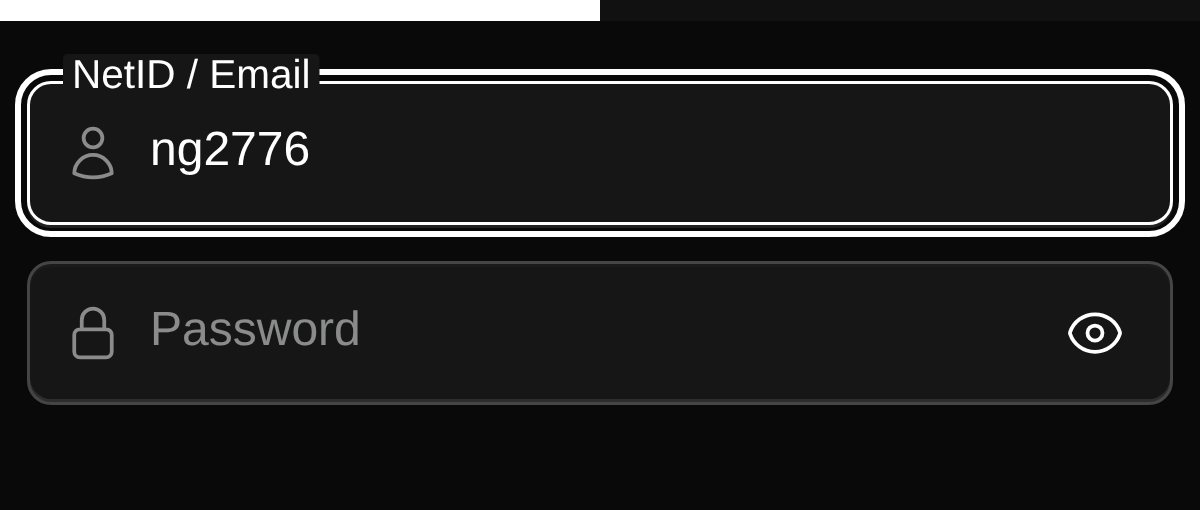
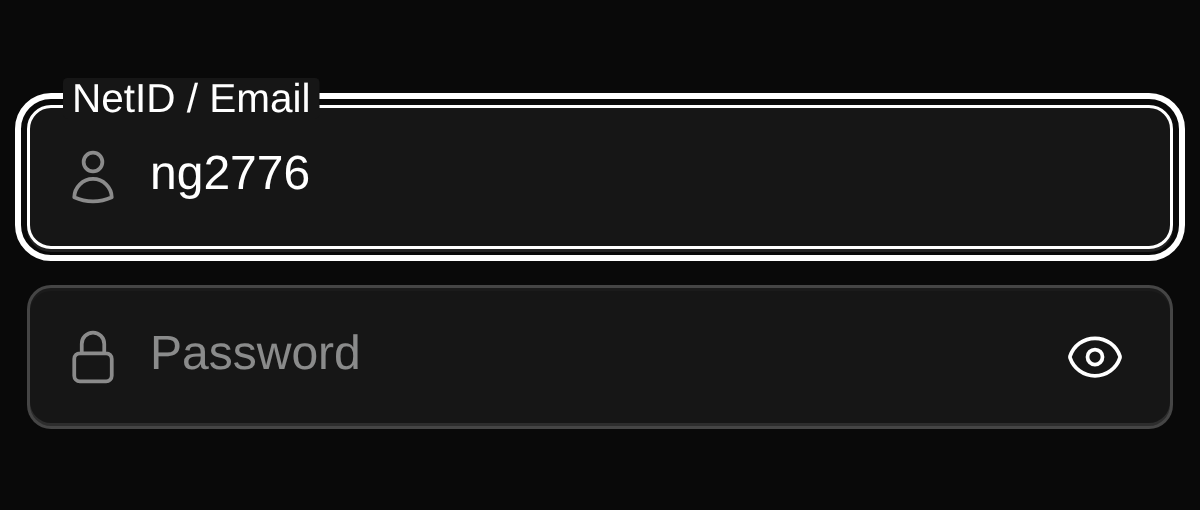
fix(login): match the brand band's gap to the password -> action break
Nabbu spotted the mismatch on the card: the logo sat 20px (16 on mobile)
above the NetID field while the password field held 36px above Sign in —
so a brand chunk read as *closer* than the form's own action break. Both
are group breaks (logo group -> form group; credential group -> action),
so they must measure the same.

Fix: card-body top padding `pt-4 sm:pt-5` -> `pt-9 sm:pt-9` = 36px on both
breakpoints. The `sm:` copy is load-bearing: `sm:p-8` (padding shorthand)
out-ranks a bare `pt-9` above 640px and was silently pulling it back to 32.

Measured ladder, visible gaps (element bottom -> next top):

  0   password field -> its Caps Lock hint row   ATTACHED
  8   Sign in -> status line                     ATTACHED feedback
  12  NetID -> Password                          PEERS, one group
  36  Password -> Sign in  ==  logo -> NetID     both GROUP BREAKS, equal
  40  Sign in -> footer text                     SECTION (+ rule + pt-3)

Ordering 0 < 8 < 12 < 36 < 40 holds, horizontal gutters stay uniform, and
card padding still exceeds the 12px peer gap. DESIGN §5's worked example
now documents 36 = 36 and the "same tier must measure the same" rule.

Verified: rhythm audit now measures the *visible* gaps (the earlier 20px
reading was wrapper-based and hid the 16px reserved Caps row) — 18/18 PASS
at 1280x900 and 390x844 including a new "brand gap == password->Sign in
gap" check; states.py 13/13; verify76 70/71 (H2a pre-existing); ruff app/
[…]

diff --git a/app/templates/login.html b/app/templates/login.html
@@ -41,7 +41,10 @@
           <img src="/static/logo-rect.png" alt="OpenSRM" width="400" height="120"
                class="w-full h-auto">
         </figure>
-        <div class="card-body p-6 sm:p-8 pt-4 sm:pt-5">
+        <!-- pt-9 (36px) = the brand band's group break: measured to match the
+               password -> Sign in break (16px reserved caps row + mt-5 20px = 36px),
+               so the two group breaks in the card are the same tier -->
+        <div class="card-body p-6 sm:p-8 pt-9 sm:pt-9">
 
           <!-- Form. Vertical gaps are RANKED by relationship, never uniform
                (DESIGN §5 rhythm, Gestalt proximity): attached 0 < feedback 8

diff --git a/DESIGN.md b/DESIGN.md
@@ -385,7 +385,7 @@ Meaning map: current class = `success` border + 8% tint + "Now" badge · next/so
 
 - **Mobile-first single column.** Dashboard container `max-w-3xl mx-auto px-4 py-5`. Login is a centered card, `w-full max-w-md`, on `min-h-[100dvh]`.
 - **Rhythm (the 4px scale, in use):** `gap-2` / `gap-3` inside and between cards · `mb-5` between blocks · card padding `p-4` (`p-5` for the hero, `p-0` for list cards). Don't introduce new spacing values.
-- **Vertical gaps are RANKED by relationship, never uniform** (Gestalt proximity — equal gaps everywhere give consistency without hierarchy). Same 4px scale, ordered tight → loose: **0** attached (a field and its own hint/error) → **`gap-2` 8px** feedback that reports on one element (status under its button) → **`gap-3` 12px** peers inside a group (field ↔ field) → **`mb-5` 20px** group break (credential group → action, content → footer), then a rule + `pt-3` for a section. A card must show ≥3 of these tiers in order. Horizontal gutters stay uniform — the column is one unit — and card padding must stay larger than the gaps inside it. Worked example: the login card, audited end-to-end as 0 < 8 < 12 < 20 < 40.
+- **Vertical gaps are RANKED by relationship, never uniform** (Gestalt proximity — equal gaps everywhere give consistency without hierarchy). Same 4px scale, ordered tight → loose: **0** attached (a field and its own hint/error) → **`gap-2` 8px** feedback that reports on one element (status under its button) → **`gap-3` 12px** peers inside a group (field ↔ field) → **group break**, sized per card: `mb-5` 20px between content blocks — and in the login card **36px**, because its two group breaks (the brand band `pt-9`, and password → Sign in = 16px reserved Caps row + `mt-5`) must measure the same → **section break**, looser than every group break (login card: 40px whitespace + rule + `pt-3`). A card must show ≥3 of these tiers in order. Horizontal gutters stay uniform — the column is one unit — and card padding must stay larger than the gaps inside it. Worked example: the login card, audited end-to-end as **0 < 8 < 12 < 36 < 40**.
 - **Section headings:** `text-base font-semibold mb-3`.
 - **Breakpoints:** design at 375px first. `sm` (640) switches the course grid to 2 columns and reveals the "Refresh" label. `lg` (1024) goes to 3 columns. The content column never grows past `max-w-3xl`.
 - **Touch targets ≥ 44px** for anything a thumb must hit (README requirement). `btn` is 40px and `btn-sm` 32px, which is acceptable for toolbar actions only; use `btn-lg` (48px) or `min-h-11` for main actions and tappable rows.
